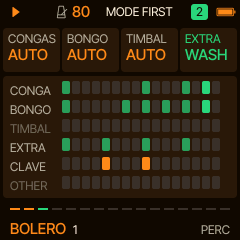
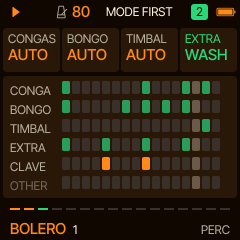
The percussion on screen: PLAY's meter counts it, PERC shows it live
PLAY's bar meter counted every part but the percussion (its notes only
went to the PERC page's record), so its columns missed what the drums
played. They count it now. The PERC page shows, while playing, everything
each row played (the style's lanes, the cards', the bells, the fills) with
the step playing lit down all six rows; stopped, the style's own lanes.
The quiet styles' percussion (son, bolero, danzon, tango, cumbia) comes
forward a little: their soft strokes up, their kits up 2 to 3 dB.

Claude-Session: https://claude.ai/code/session_01VgesZfE8qndbNyhtoqzKDD

Changed region(s): [[0.7875, 0.3208, 0.875, 0.7875], [0.0292, 0.4958, 0.2042, 0.5542]]

diff --git a/firmware/src/ma_groove.c b/firmware/src/ma_groove.c
@@ -714,6 +714,31 @@ static const perc_set_t PERC[MA_STYLES] = {
 };
 
 /* the lanes for the PERC panel: CONGA BONGO TIMBAL EXTRA CLAVE and the rest */
+/* what each PERC row played, a bit a sixteenth: this bar's so far, the bar before's after the step playing (the
+ * screen: everything that sounded, the cards', the bells', the fills', not only the style's lanes) */
+static int drum_row(int d)
+{
+    if (d <= MA_DR_TUMBA) return G_CONGA;
+    if (d <= MA_DR_BONGO_MUTE || d == MA_DR_BELL_BONGO) return G_BONGO;
+    if (d <= MA_DR_BELL_MUTE) return G_TIMBAL;
+    if (d == MA_DR_CLAVE) return G_CLAVE;
+    if ((d >= MA_DR_GUIRO_SHORT && d <= MA_DR_CABASA) || d == MA_DR_WASH || d == MA_DR_WASH_TAP) return G_EXTRA;
+    return G_OTHER;
+}
+uint32_t ma_row_played(const ma_groove *g, int row)
+{
+    int now = g->playing && g->step >= 0 ? g->step : -1;
+    uint32_t bits = 0;
+    for (int d = 0; d < MA_DR_COUNT; ++d) {
+        if (drum_row(d) != row)
+            continue;
+        uint32_t cur = g->dr_hits[d], last = g->dr_last[d];
+        uint32_t mask = now >= 0 ? (2u << now) - 1u : 0u;
+        bits |= (cur & mask) | (last & ~mask & 0xFFFFu);
+    }
+    return bits;
+}
+
 uint32_t ma_lane_bits(const ma_groove *g, int lane, int bar)
 {
     const perc_set_t *ps = &PERC[clampi(g->s.snd[3], 0, MA_STYLES - 1)];
@@ -829,10 +854,9 @@ static void note(ma_groove *g, int part, int n, int vel, float len_frames)
     emit(g, 1, part, n, vel);
     feed(g, part, n, vel);
     if (g->step >= 0) {
-        if (part == MA_PERC)
+        if (part == MA_PERC)                       /* (each drum's, the PERC page; and the part's, PLAY's meter) */
             g->dr_hits[clampi(n, 0, MA_DR_COUNT - 1)] |= (uint16_t)(1u << g->step);
-        else
-            g->hits[part] |= (uint16_t)(1u << g->step);
+        g->hits[part] |= (uint16_t)(1u << g->step);
     }
     if (part == MA_HORNS && g->soloing) {
         g->solo_on_clock = g->clock;
@@ -1075,6 +1099,11 @@ static void play_lanes(ma_groove *g, const lane_t *l, int n, int i, uint32_t del
         if (c == 'o' && heat < 0.25f && (i % 2))   /* cool: the soft sixteenths rest */
             continue;
         int v = c == 'X' ? 118 : c == 'x' ? 100 : c == 'h' ? 84 : 72;
+        /* the quiet styles' percussion brought forward, so it is heard under the band (their soft strokes most) */
+        static const int8_t LIFT[MA_STYLES] = {[MA_ST_SON] = 18, [MA_ST_BOLERO] = 18, [MA_ST_DANZON] = 18,
+                                               [MA_ST_TANGO] = 22, [MA_ST_CUMBIA] = 8};
+        int lift = LIFT[clampi(g->s.snd[3], 0, MA_STYLES - 1)];
+        v += c == 'o' ? lift + lift / 2 : lift;
         v = (int)((float)v * (0.82f + 0.18f * heat)) + (int)(hum * 10.0f);
         schedule(g, delay, MA_PERC, l[k].drum, clampi(v, 1, 127), 0);
     }

diff --git a/firmware/src/ma_ui.c b/firmware/src/ma_ui.c
@@ -607,7 +607,8 @@ static void mu_panel_pan3d(ma_ui *u)
     mu_label(150, 100, "HEADPHONES", T_DIM);
 }
 
-/* PERC: every lane over the bar as the style plays it, the step lit */
+/* PERC: every row over the bar: playing, what it played (all of it: the style's lanes, the cards', the bells, the
+ * fills), the step playing a column lit down all the rows; stopped, the style's own lanes */
 static void mu_panel_perc(ma_ui *u)
 {
     const ma_groove *g = u->g;
@@ -615,12 +616,14 @@ static void mu_panel_perc(ma_ui *u)
     int bar = g->bar < 0 ? 0 : g->bar;
     for (int r = 0; r < 6; ++r) {
         int32_t y = 5 + r * 19;
-        uint32_t bits = ma_lane_bits(g, r, bar);
+        uint32_t bits = g->playing ? ma_row_played(g, r) : ma_lane_bits(g, r, bar);
         mu_label(10, y + 2, nm[r], bits ? T_MID : T_DIM);
         for (int k = 0; k < 16; ++k) {
             int32_t x = 62 + k * 10;
             bool on = (bits >> k) & 1u, now = g->playing && g->step == k;
-            cv_rrect(x, y, 8, 13, 2, on ? (now ? T_ACCENT : r == 4 ? T_THEME : ux_mix(T_SURF, T_ACCENT, 70)) : mu_well(), T_SURF);
+            uint16_t c = on ? (now ? T_ACCENT : r == 4 ? T_THEME : ux_mix(T_SURF, T_ACCENT, 70))
+                            : now ? ux_mix(T_SURF, T_TEXT, 30) : mu_well();
+            cv_rrect(x, y, 8, 13, 2, c, T_SURF);
         }
     }
 }

diff --git a/firmware/src/ma_sounds.h b/firmware/src/ma_sounds.h
@@ -183,7 +183,10 @@ static inline void mas_track(track_t *t, const ma_groove *g, int part)
     const mas_sound *snd = part == MA_PERC ? 0 : mas_of(g, part);
     /* MIX: 100 is -2 dB (headroom: the master limiter stays out of it), each step down 0.3 dB, 0 off; then the
      * sound's trim (F_DB: half-dB steps) */
-    int lvl = 108 - (100 - s->lvl[part]) * 6 / 10 + (snd ? snd->trim : MAS_KIT_TRIM);
+    /* (the quiet styles' kits a little up: their percussion heard under the band; half-dB steps) */
+    static const int8_t KIT_UP[MA_STYLES] = {[MA_ST_SON] = 5, [MA_ST_BOLERO] = 5, [MA_ST_DANZON] = 4, [MA_ST_TANGO] = 6};
+    int kit_trim = MAS_KIT_TRIM + KIT_UP[(unsigned)s->snd[3] % MA_STYLES];
+    int lvl = 108 - (100 - s->lvl[part]) * 6 / 10 + (snd ? snd->trim : kit_trim);
     t->p[P_LEVEL] = mas_clamp(s->lvl[part] ? lvl : 0, 1, 127);
     /* the place: the piano a little left, the horns a little right (PAN 3D moves the solo), bass and percussion
      * centred, the percussion spread */

diff --git a/firmware/src/ma_groove.h b/firmware/src/ma_groove.h
@@ -231,6 +231,7 @@ void ma_loop_name(const ma_settings *s, int loop, char *out, int max);
 int ma_snap(const ma_settings *s, int note);       /* a note onto the scale (the nearest step, ties down) */
 bool ma_clave_hit(const ma_groove *g, int bar, int step);   /* the clave strikes there (the screen, the hits) */
 int ma_clave_side(const ma_groove *g, int bar);    /* 3 or 2: the side of the clave bar b plays */
+uint32_t ma_row_played(const ma_groove *g, int row);   /* PERC row 0..5: what sounded, a bit a step */
 uint32_t ma_lane_bits(const ma_groove *g, int lane, int bar);   /* the PERC panel: lane 0..5's steps in bar b */
 
 #endif
